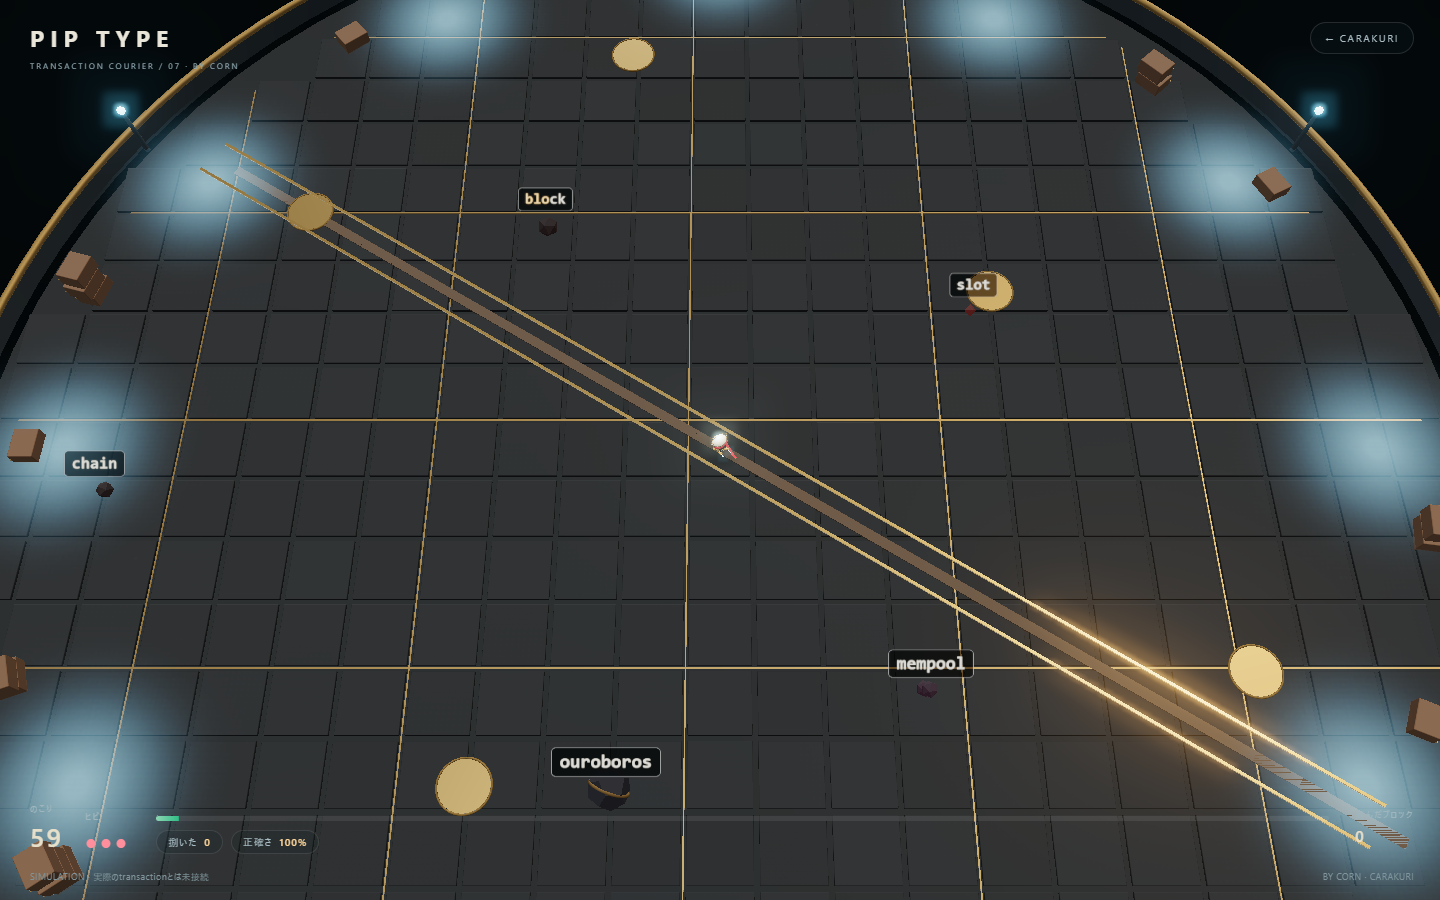
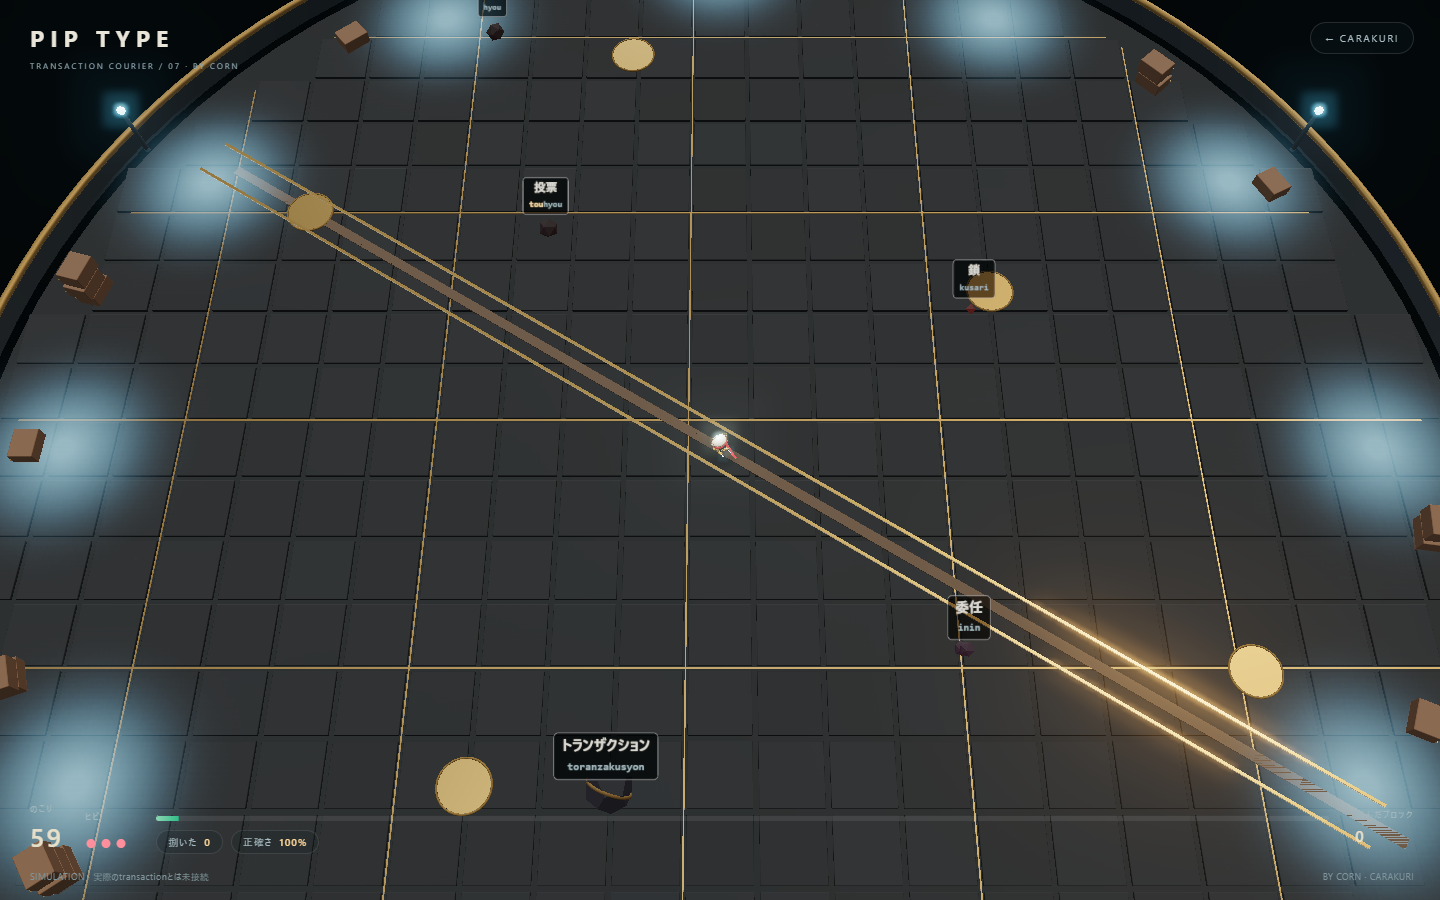
feat(type): 日本語をローマ字打ちで — 綴りの揺れを全部受ける
語彙を日本語既定に。かな→打鍵は type/romaji.js の小さな状態機械で、
shi/si、cha/tya、kko/xtuko、n/nn を同時に追い、語札の下のローマ字
ガイドは打った経路に追従する。語は最短打鍵数で棚分けされ、速い相手
ほど短い。ENは開始画面で切替。長音符ーは端末で鍵が割れるため語彙から
外した。

diff --git a/type/viewer.js b/type/viewer.js
@@ -7,7 +7,8 @@ import {OutputPass} from 'three/addons/postprocessing/OutputPass.js';
 import {buildMouse} from '../pip/model.js';
 import {buildArena,buildBlobShadow,buildSwarmer,SWARM,ARENA,SPAWN_R} from '../rush/model.js';
 import {makeLabel,buildStreak} from './model.js';
-import {WORDS,BAND} from './words.js';
+import {WORDS_JP,WORDS_EN,BAND} from './words.js';
+import {makeMatcher,minLen} from './romaji.js';
 
 const $=s=>document.querySelector(s);
 
@@ -104,15 +105,28 @@ const progress=()=>1-S.left/RUN;
 const spawnGap=()=>2.3-progress()*1.35;
 const walkSpeed=()=>2.1+progress()*1.6;
 
-// A word whose first letter no walking word already uses, so the first key
-// always names exactly one of them. When the yard is crowded enough that
-// every letter is taken, a duplicate is allowed and the nearest one answers.
+// The lists shelved by how many keystrokes the shortest spelling needs, so
+// the quick arrivals carry little and the heavy ones carry a lot.
+function shelve(list){
+ const out={short:[],mid:[],long:[]};
+ for(const w of list){
+  const n=minLen(w.k);
+  out[n<=5?'short':n<=8?'mid':'long'].push({...w,f0:makeMatcher(w.k).guide().rest[0]});
+ }
+ return out;
+}
+const LEX={jp:shelve(WORDS_JP),en:shelve(WORDS_EN)};
+let lang='jp';
+try{lang=localStorage.getItem('pip-type-lang')==='en'?'en':'jp'}catch{}
+// A word whose first keystroke no walking word already answers to, so the
+// first key always names exactly one of them. In a crowd a duplicate is
+// allowed, and the nearest one answers.
 function pickWord(kind){
- const band=WORDS[BAND[kind]];
- const used=new Set(enemies.map(e=>e.word[0]));
+ const band=LEX[lang][BAND[kind]];
+ const used=new Set(enemies.map(e=>e.f0));
  for(let i=0;i<14;i++){
   const w=band[Math.floor(Math.random()*band.length)];
-  if(!used.has(w[0])||i===13)return w;
+  if(!used.has(w.f0)||i===13)return w;
  }
  return band[0];
 }
@@ -131,12 +145,15 @@ function spawnEnemy(kind,word,x,z){
   const a=Math.random()*Math.PI*2;
   x=Math.cos(a)*SPAWN_R;z=Math.sin(a)*SPAWN_R;
  }
+ if(typeof word==='string')word={d:word,k:word};
+ const m=makeMatcher(word.k);
  const o=takeSwarm(kind);
  o.position.set(x,.5,z);
  o.scale.setScalar(.9+Math.random()*.28);
- const label=makeLabel();label.paint(word,0,false);
+ const label=makeLabel();
+ const g0=m.guide();label.paint(word.d,'',g0.rest,false);
  scene.add(label.sprite);
- const e={o,kind,word,done:0,label,seed:Math.random()*9,dying:0,mad:0};
+ const e={o,kind,d:word.d,m,f0:word.f0||g0.rest[0],first:m.first(),label,seed:Math.random()*9,dying:0,mad:0};
  enemies.push(e);
  return e;
 }
@@ -156,33 +173,37 @@ function killEnemy(e){
 }
 
 // --- typing. The one verb. ---
+function repaint(e,mad){
+ const g=e.m.guide();
+ e.label.paint(e.d,g.typed,g.rest,mad);
+}
 function keyChar(ch){
  if(S.phase!=='run')return;
  ch=ch.toLowerCase();
  if(!/^[a-z]$/.test(ch))return;
  if(target&&target.dying===0){
-  if(target.word[target.done]===ch){
-   target.done++;S.hits++;sfx.hit(target.done);
-   if(target.done>=target.word.length){
-    S.hits+=0;fire(target);
-   }else target.label.paint(target.word,target.done,false);
+  if(target.m.tryChar(ch)){
+   S.hits++;sfx.hit(target.m.guide().typed.length);
+   if(target.m.done())fire(target);
+   else repaint(target,false);
   }else{
    S.miss++;target.mad=.22;sfx.miss();
-   target.label.paint(target.word,target.done,true);
+   repaint(target,true);
   }
   hud();return;
  }
- // no lock yet: the first key chooses the nearest word that starts with it
+ // no lock yet: the first key chooses the nearest word that answers to it
  let best=null,bd=1e9;
  for(const e of enemies){
-  if(e.dying>0||e.word[0]!==ch)continue;
+  if(e.dying>0||!e.first.has(ch))continue;
   const d=Math.hypot(e.o.position.x,e.o.position.z);
   if(d<bd){bd=d;best=e;}
  }
  if(best){
-  target=best;target.done=1;S.hits++;sfx.hit(1);
-  if(target.word.length===1)fire(target);
-  else target.label.paint(target.word,1,false);
+  best.m.tryChar(ch);
+  target=best;S.hits++;sfx.hit(1);
+  if(target.m.done())fire(target);
+  else repaint(target,false);
  }else{S.miss++;sfx.miss();}
  hud();
 }
@@ -279,6 +300,15 @@ function hud(){
  $('#acc').textContent=(typed?Math.round(S.hits/typed*100):100)+'%';
 }
 $('#start').onclick=start;
+function setLang(l){
+ lang=l;
+ try{localStorage.setItem('pip-type-lang',l)}catch{}
+ $('#lang-jp').classList.toggle('on',l==='jp');
+ $('#lang-en').classList.toggle('on',l==='en');
+}
+$('#lang-jp').onclick=()=>setLang('jp');
+$('#lang-en').onclick=()=>setLang('en');
+setLang(lang);
 
 // --- loop ---
 const clock=new T.Clock();
@@ -311,7 +341,7 @@ renderer.setAnimationLoop(()=>{
    }
    p.y=.5+Math.sin(S.t*6+e.seed)*.09;
    e.o.rotation.y+=dt*1.6;e.o.rotation.x+=dt*.9;
-   if(e.mad>0){e.mad-=dt;if(e.mad<=0)e.label.paint(e.word,e.done,false);}
+   if(e.mad>0){e.mad-=dt;if(e.mad<=0)repaint(e,false);}
    e.label.sprite.position.set(p.x,p.y+SWARM[e.kind].size+.55,p.z);
   }
 
@@ -359,4 +389,4 @@ addEventListener('resize',()=>{
 camera.position.set(0,52,-24);camera.lookAt(0,0,0);
 renderChain();hud();
 $('#loading').classList.add('done');
-window.pipType={S,enemies,scene,camera,start,spawnEnemy,keyChar,chain,getTarget:()=>target};
+window.pipType={S,enemies,scene,camera,start,spawnEnemy,keyChar,chain,setLang,getTarget:()=>target};

diff --git a/type/romaji.js b/type/romaji.js
@@ -1,0 +1,109 @@
+// Kana to keystrokes, with every common spelling accepted at once. The matcher
+// is a small set-of-states automaton: each key advances every reading that
+// still fits, so shi/si, cha/tya, kko/xtuko and n/nn are all the same word.
+const KANA={
+ 'あ':['a'],'い':['i'],'う':['u','wu'],'え':['e'],'お':['o'],
+ 'か':['ka','ca'],'き':['ki'],'く':['ku','cu','qu'],'け':['ke'],'こ':['ko','co'],
+ 'さ':['sa'],'し':['si','shi','ci'],'す':['su'],'せ':['se','ce'],'そ':['so'],
+ 'た':['ta'],'ち':['ti','chi'],'つ':['tu','tsu'],'て':['te'],'と':['to'],
+ 'な':['na'],'に':['ni'],'ぬ':['nu'],'ね':['ne'],'の':['no'],
+ 'は':['ha'],'ひ':['hi'],'ふ':['fu','hu'],'へ':['he'],'ほ':['ho'],
+ 'ま':['ma'],'み':['mi'],'む':['mu'],'め':['me'],'も':['mo'],
+ 'や':['ya'],'ゆ':['yu'],'よ':['yo'],
+ 'ら':['ra'],'り':['ri'],'る':['ru'],'れ':['re'],'ろ':['ro'],
+ 'わ':['wa'],'を':['wo'],
+ 'が':['ga'],'ぎ':['gi'],'ぐ':['gu'],'げ':['ge'],'ご':['go'],
+ 'ざ':['za'],'じ':['zi','ji'],'ず':['zu'],'ぜ':['ze'],'ぞ':['zo'],
+ 'だ':['da'],'ぢ':['di'],'づ':['du'],'で':['de'],'ど':['do'],
+ 'ば':['ba'],'び':['bi'],'ぶ':['bu'],'べ':['be'],'ぼ':['bo'],
+ 'ぱ':['pa'],'ぴ':['pi'],'ぷ':['pu'],'ぺ':['pe'],'ぽ':['po'],
+};
+const DIGRAPH={
+ 'きゃ':['kya'],'きゅ':['kyu'],'きょ':['kyo'],
+ 'しゃ':['sya','sha'],'しゅ':['syu','shu'],'しょ':['syo','sho'],
+ 'ちゃ':['tya','cha','cya'],'ちゅ':['tyu','chu','cyu'],'ちょ':['tyo','cho','cyo'],
+ 'にゃ':['nya'],'にゅ':['nyu'],'にょ':['nyo'],
+ 'ひゃ':['hya'],'ひゅ':['hyu'],'ひょ':['hyo'],
+ 'みゃ':['mya'],'みゅ':['myu'],'みょ':['myo'],
+ 'りゃ':['rya'],'りゅ':['ryu'],'りょ':['ryo'],
+ 'ぎゃ':['gya'],'ぎゅ':['gyu'],'ぎょ':['gyo'],
+ 'じゃ':['zya','ja','jya'],'じゅ':['zyu','ju','jyu'],'じょ':['zyo','jo','jyo'],
+ 'びゃ':['bya'],'びゅ':['byu'],'びょ':['byo'],
+ 'ぴゃ':['pya'],'ぴゅ':['pyu'],'ぴょ':['pyo'],
+};
+const altsOf=r=>DIGRAPH[r]||KANA[r]||[r];
+
+// The word as typing units. っ is folded into what follows it (kko / xtuko /
+// ltuko); ん offers the single n only where no reading of the next unit could
+// mistake it for the start of something else.
+function unitsOf(kana){
+ const raw=[];
+ for(let i=0;i<kana.length;i++){
+  const c=kana[i],pair=kana[i+1]?c+kana[i+1]:null;
+  if(c==='っ'||c==='ん'){raw.push(c);continue;}
+  if(pair&&DIGRAPH[pair]){raw.push(pair);i++;continue;}
+  raw.push(c);
+ }
+ const us=[];
+ for(let j=0;j<raw.length;j++){
+  const r=raw[j];
+  if(r==='っ'&&raw[j+1]){
+   const alts=[];
+   for(const a of altsOf(raw[j+1])){
+    if(!'aiueon'.includes(a[0]))alts.push(a[0]+a);
+    alts.push('xtu'+a,'ltu'+a);
+   }
+   us.push({alts});j++;
+   continue;
+  }
+  if(r==='ん'){
+   const nxt=raw[j+1],alts=['nn'];
+   const firsts=nxt?altsOf(nxt).map(a=>a[0]):null;
+   if(!nxt||firsts.every(f=>!'aiueoyn'.includes(f)))alts.push('n');
+   us.push({alts});
+   continue;
+  }
+  us.push({alts:altsOf(r)});
+ }
+ return us;
+}
+
+export function makeMatcher(kana){
+ const us=unitsOf(kana);
+ let states=[{u:0,a:null,p:0}],typed='';
+ function step(sts,ch){
+  const out=[];
+  for(const st of sts){
+   if(st.u>=us.length)continue;
+   if(st.a===null){
+    for(const a of us[st.u].alts){
+     if(a[0]!==ch)continue;
+     out.push(a.length===1?{u:st.u+1,a:null,p:0}:{u:st.u,a,p:1});
+    }
+   }else if(st.a[st.p]===ch){
+    out.push(st.p+1===st.a.length?{u:st.u+1,a:null,p:0}:{u:st.u,a:st.a,p:st.p+1});
+   }
+  }
+  return out;
+ }
+ const shortest=alts=>{let s=alts[0];for(const a of alts)if(a.length<s.length)s=a;return s;};
+ return {
+  first(){const set=new Set();for(const a of us[0].alts)set.add(a[0]);return set;},
+  tryChar(ch){
+   const out=step(states,ch);
+   if(!out.length)return false;
+   states=out;typed+=ch;return true;
+  },
+  done(){return states.some(st=>st.u>=us.length);},
+  // What has been typed, and the cheapest way to finish from here. This is
+  // the line under the word, and it follows whichever spelling was chosen.
+  guide(){
+   let best=states[0];
+   for(const st of states)if(st.u>best.u||(st.u===best.u&&st.p>best.p))best=st;
+   let rest=best.a?best.a.slice(best.p):'';
+   for(let j=best.u+(best.a?1:0);j<us.length;j++)rest+=shortest(us[j].alts);
+   return {typed,rest};
+  },
+ };
+}
+export function minLen(kana){return makeMatcher(kana).guide().rest.length;}

diff --git a/type/words.js b/type/words.js
@@ -1,10 +1,35 @@
-// The vocabulary the yard throws at you: the series' own world, nothing else.
-// Short words ride the quick arrivals, long ones ride the slow heavy ones, so
-// how much you must type is read off what is walking at you.
-export const WORDS={
- short:['ada','utxo','slot','block','stake','pool','mint','hash','node','vote','fee','key','coin','peer','fork','epoch','chain','relay','forge','drep','pip','anchor'],
- mid:['wallet','ledger','plutus','oracle','script','reward','address','staking','mainnet','deposit','quorum','mempool','cardano','genesis','preview','padding','builder','courier'],
- long:['ouroboros','delegation','governance','transaction','validator','catalyst','treasury','consensus','blockchain','signature','committee','mithril','stakepool','constitution'],
-};
-// Which band each arrival reads from.
+// The vocabulary the yard throws at you: the series' own world in its own
+// language. d is what the word shows; k is what the fingers actually type,
+// read through romaji.js so every common spelling counts.
+// Long-vowel bars are avoided on purpose: ー would ask for a key that phones
+// and layouts disagree about.
+export const WORDS_JP=[
+ // things
+ {d:'炉',k:'ろ'},{d:'火',k:'ひ'},{d:'門',k:'もん'},{d:'街',k:'まち'},{d:'荷',k:'に'},
+ {d:'知恵',k:'ちえ'},{d:'鍛冶',k:'かじ'},{d:'票',k:'ひょう'},{d:'灯り',k:'あかり'},
+ {d:'炎',k:'ほのお'},{d:'琥珀',k:'こはく'},{d:'歯車',k:'はぐるま'},{d:'荷物',k:'にもつ'},
+ {d:'鎖',k:'くさり'},{d:'大金庫',k:'だいきんこ'},
+ // deeds
+ {d:'刻む',k:'きざむ'},{d:'運ぶ',k:'はこぶ'},{d:'配達',k:'はいたつ'},{d:'監視',k:'かんし'},
+ {d:'中継',k:'ちゅうけい'},{d:'承認',k:'しょうにん'},{d:'提出',k:'ていしゅつ'},
+ // the ledger's world
+ {d:'国庫',k:'こっこ'},{d:'委任',k:'いにん'},{d:'投票',k:'とうひょう'},{d:'提案',k:'ていあん'},
+ {d:'分岐',k:'ぶんき'},{d:'世代',k:'せだい'},{d:'台帳',k:'だいちょう'},{d:'報酬',k:'ほうしゅう'},
+ {d:'署名',k:'しょめい'},{d:'憲法',k:'けんぽう'},{d:'分散',k:'ぶんさん'},{d:'自律',k:'じりつ'},
+ {d:'最長',k:'さいちょう'},{d:'創発',k:'そうはつ'},{d:'委員会',k:'いいんかい'},
+ {d:'委任状',k:'いにんじょう'},{d:'手数料',k:'てすうりょう'},{d:'評議会',k:'ひょうぎかい'},
+ {d:'合意形成',k:'ごういけいせい'},{d:'ブロック',k:'ぶろっく'},
+ {d:'ウロボロス',k:'うろぼろす'},{d:'ガバナンス',k:'がばなんす'},{d:'カタリスト',k:'かたりすと'},
+ {d:'トランザクション',k:'とらんざくしょん'},{d:'分散自律',k:'ぶんさんじりつ'},
+];
+export const WORDS_EN=[
+ 'ada','utxo','slot','block','stake','pool','mint','hash','node','vote','fee','key','coin','peer',
+ 'fork','epoch','chain','relay','forge','drep','pip','anchor','wallet','ledger','plutus','oracle',
+ 'script','reward','address','staking','mainnet','deposit','quorum','mempool','cardano','genesis',
+ 'preview','builder','courier','ouroboros','delegation','governance','transaction','validator',
+ 'catalyst','treasury','consensus','blockchain','signature','committee','mithril','stakepool',
+].map(w=>({d:w,k:w}));
+// Which shelf each arrival reads from: the quick ones carry little to type,
+// the heavy ones carry a lot. Shelving happens in the viewer, by how many
+// keystrokes the shortest spelling needs.
 export const BAND={rock:'short',dart:'short',split:'mid',hulk:'long'};

diff --git a/type/model.js b/type/model.js
@@ -7,27 +7,33 @@ import * as T from 'three';
 // One label: a sprite and the brush to repaint it. Repainted only when the
 // word or the progress changes, never per frame.
 export function makeLabel(){
- const c=document.createElement('canvas');c.width=320;c.height=88;
+ const c=document.createElement('canvas');c.width=384;c.height=120;
  const x=c.getContext('2d');
  const tex=new T.CanvasTexture(c);tex.colorSpace=T.SRGBColorSpace;
  // Words are for reading, not for atmosphere: no fog on them, whatever the
  // yard is doing behind.
  const sprite=new T.Sprite(new T.SpriteMaterial({map:tex,transparent:true,depthWrite:false,fog:false}));
- sprite.scale.set(6.2,1.7,1);
+ sprite.scale.set(6.9,2.16,1);
  sprite.center.set(.5,0);
- function paint(word,done,mad){
-  x.clearRect(0,0,320,88);
-  x.font='600 40px Consolas,monospace';
-  const w=x.measureText(word).width;
-  const pad=18,bw=Math.min(312,w+pad*2),bx=(320-bw)/2;
-  x.fillStyle=mad?'rgba(90,20,20,.78)':'rgba(10,17,19,.78)';
-  x.beginPath();x.roundRect(bx,14,bw,62,10);x.fill();
+ // Two lines: the word as it is written, and under it the keys as they are
+ // being struck — typed so far in amber, the cheapest way home in grey.
+ function paint(disp,typed,rest,mad){
+  x.clearRect(0,0,384,120);
+  x.font='600 34px "Yu Gothic UI",Meiryo,sans-serif';
+  const dw=x.measureText(disp).width;
+  x.font='600 25px Consolas,monospace';
+  const rw=x.measureText(typed+rest).width;
+  const pad=18,bw=Math.min(378,Math.max(dw,rw)+pad*2),bx=(384-bw)/2;
+  x.fillStyle=mad?'rgba(90,20,20,.8)':'rgba(10,17,19,.8)';
+  x.beginPath();x.roundRect(bx,6,bw,108,10);x.fill();
   x.strokeStyle=mad?'#ff8f9c':'#ffffff2e';x.lineWidth=2;x.stroke();
   x.textBaseline='middle';
-  const x0=(320-w)/2;
-  const doneText=word.slice(0,done),rest=word.slice(done);
-  x.fillStyle='#ffd79a';x.fillText(doneText,x0,47);
-  x.fillStyle='#e9e5d9';x.fillText(rest,x0+x.measureText(doneText).width,47);
+  x.font='600 34px "Yu Gothic UI",Meiryo,sans-serif';
+  x.fillStyle='#e9e5d9';x.fillText(disp,(384-dw)/2,38);
+  x.font='600 25px Consolas,monospace';
+  const x0=(384-rw)/2;
+  x.fillStyle='#ffd79a';x.fillText(typed,x0,86);
+  x.fillStyle='#93a6ab';x.fillText(rest,x0+x.measureText(typed).width,86);
   tex.needsUpdate=true;
  }
  function dispose(){tex.dispose();sprite.material.dispose();}

diff --git a/type/index.html b/type/index.html
@@ -34,12 +34,13 @@
     <p id="o-lead">寄ってくる滞留の頭上に、Cardanoの語が浮かんでいる。打ち切った語が、そのまま投擲になる。</p>
     <div id="o-score" hidden></div>
     <ul class="rules">
-      <li><b>手は打つだけ</b> ‥ 移動もボタンもありません。語をタイプすると、PIPが投げて捌きます</li>
+      <li><b>手は打つだけ</b> ‥ 語をローマ字で打ち切ると、PIPが投げて捌きます。shi/si どちらでも通ります</li>
       <li><b>最初の一字で決まる</b> ‥ その字で始まる一番近い相手にロック。打ち切るまで変わりません</li>
       <li><b>打ち間違いは進まないだけ</b> ‥ ミスは数えられ、正確さとして最後に出ます</li>
       <li><b>速いのは短く、遅いのは長い</b> ‥ 割れるやつは、割れてから二語になります</li>
       <li>60秒を打ち切ると<em>ブロックが刻まれ</em>、力尽きると<em>空のブロック</em>になります</li>
     </ul>
+    <div class="langs"><span>語彙</span><button id="lang-jp" class="on">日本語（ローマ字打ち）</button><button id="lang-en">EN</button></div>
     <button id="start">START</button>
     <p class="hint" id="o-hint">ENTER でも開始できます · スマホは開始後に画面タップでキーボード</p>
   </div>

diff --git a/type/style.css b/type/style.css
@@ -50,6 +50,9 @@ header{position:fixed;top:22px;left:30px;right:26px;display:flex;justify-content
 .rules{list-style:none;padding:0;margin:20px 0 24px;font-size:11px;line-height:2.1;color:#9fb0b3}
 .rules b{color:#dce6e2;font-weight:500;background:#ffffff10;border-radius:4px;padding:2px 7px;margin-right:2px}
 .rules em{font-style:normal;color:#ffd79a}
+.langs{display:flex;gap:8px;align-items:center;margin:-6px 0 16px;font-size:9.5px;color:#8fa5ad;letter-spacing:1.5px}
+.langs button{border:1px solid #ffffff22;border-radius:14px;background:#ffffff08;padding:6px 13px;font-size:10px;letter-spacing:1.2px;color:#a8bdc3}
+.langs button.on{border-color:#e0cb8766;background:#e0cb871a;color:#f2e7c8}
 #start{width:100%;padding:14px;border:1px solid #e2705f55;border-radius:11px;background:#e2705f1f;color:#ffd0c4;font-size:13px;letter-spacing:4px}
 #start:hover{background:#e2705f33}
 .hint{margin-top:12px!important;font-size:9.5px;letter-spacing:1.6px;color:#7c8f94;text-align:center}
